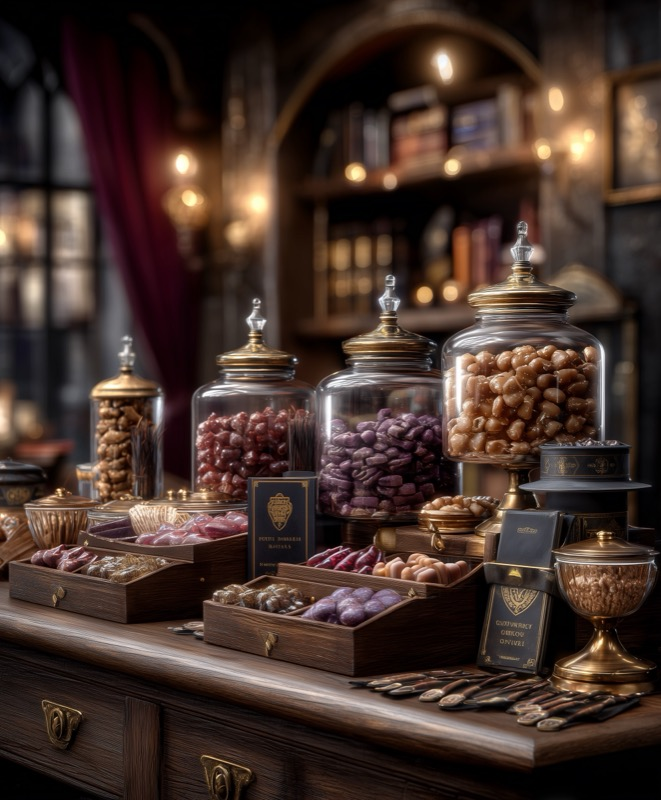
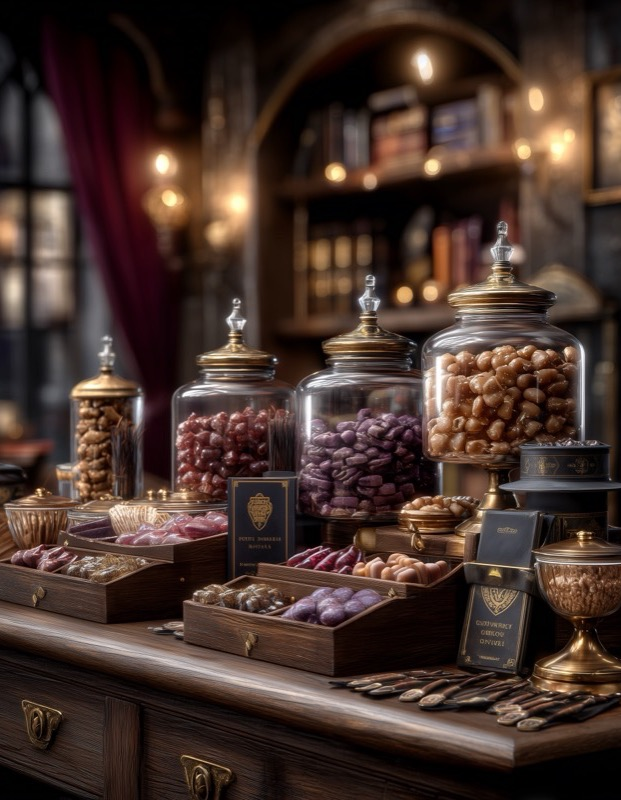
feat: добавлена навигация в магазин и оптимизировано фото
- Обрезано изображение магазина справа на 40px (661x800 → 621x800)
- Добавлен переход на ShopTab по кнопке "ПЕРЕЙТИ В МАГАЗИН"
- Добавлен тип 'shop' в TabType и навигацию
- Интегрирован ShopTab в основное приложение

diff --git a/webapp/src/app/page.tsx b/webapp/src/app/page.tsx
@@ -18,6 +18,7 @@ import { PathTab } from '@/components/tabs/PathTab';
 import { ChatsTab } from '@/components/tabs/ChatsTab';
 import { RatingsTab } from '@/components/tabs/RatingsTab';
 import { ProfileTab } from '@/components/tabs/ProfileTab';
+import { ShopTab } from '@/components/tabs/ShopTab';
 
 function HomeContent() {
   const [activeTab, setActiveTab] = useState<TabType>('home');
@@ -26,7 +27,7 @@ function HomeContent() {
   // Handle tab query parameter
   useEffect(() => {
     const tab = searchParams.get('tab') as TabType;
-    if (tab && ['home', 'path', 'chats', 'ratings', 'profile'].includes(tab)) {
+    if (tab && ['home', 'path', 'chats', 'ratings', 'profile', 'shop'].includes(tab)) {
       setActiveTab(tab);
     }
   }, [searchParams]);
@@ -111,8 +112,9 @@ function HomeContent() {
     home: <HomeTab onProfileClick={() => setActiveTab('profile')} />,
     path: <PathTab />,
     chats: <ChatsTab />,
-    ratings: <RatingsTab />,
+    ratings: <RatingsTab onShopClick={() => setActiveTab('shop')} />,
     profile: <ProfileTab />,
+    shop: <ShopTab />,
   };
 
   return (

diff --git a/webapp/src/components/tabs/RatingsTab.tsx b/webapp/src/components/tabs/RatingsTab.tsx
@@ -36,7 +36,11 @@ const mockTeamRatings = [
   { name: 'Десятка №5', score: 5 },
 ];
 
-export function RatingsTab() {
+interface RatingsTabProps {
+  onShopClick?: () => void;
+}
+
+export function RatingsTab({ onShopClick }: RatingsTabProps) {
   const { haptic, webApp } = useTelegram();
   const { user, token } = useAuthStore();
   const [showFullLeaderboard, setShowFullLeaderboard] = useState(false);
@@ -679,7 +683,7 @@ export function RatingsTab() {
             <button
               onClick={() => {
                 haptic.impact('light');
-                // TODO: переход в магазин
+                onShopClick?.();
               }}
               className="px-6 py-3 rounded-[5.73px] active:scale-[0.98] transition-transform"
               style={{

diff --git a/webapp/src/components/ui/Navigation.tsx b/webapp/src/components/ui/Navigation.tsx
@@ -4,7 +4,7 @@ import { Home, TrendingUp, MessageCircle, Trophy, User } from 'lucide-react';
 import { useTelegram } from '@/hooks/useTelegram';
 import { clsx } from 'clsx';
 
-export type TabType = 'home' | 'path' | 'chats' | 'ratings' | 'profile';
+export type TabType = 'home' | 'path' | 'chats' | 'ratings' | 'profile' | 'shop';
 
 interface NavigationProps {
   activeTab: TabType;
